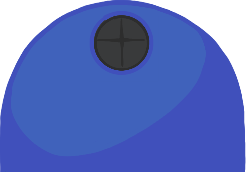
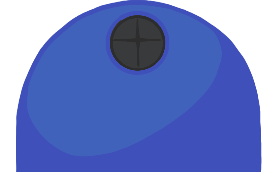
game2 bg

diff --git a/games/game2/game.js b/games/game2/game.js
@@ -28,16 +28,16 @@ function spawn_enemy( )
     var obj = document.createElement("img");
 
     
-    var nr =  parseInt( Math.random() * ( trashes_list.length ) );
+    var nr =  parseInt( Math.random() * ( game2_imgs.length ) );
 
     
-    obj.src = trashes_list[nr].img;
-    obj.className = trashes_list[nr].bin;
+    obj.src = game2_imgs[nr].img;
+    obj.className = game2_imgs[nr].bin;
     obj.className += " trash";       
     
-    var img_width = trashes_list[nr].width;
-    var img_height= trashes_list[nr].height;
-    obj.style = `z-index:10; position: absolute; left: ${ -img_width }px; top: ${parseInt(height/2)-img_height}px; width:${img_width}px; height:${img_height}px;`;
+    var img_width = game2_imgs[nr].width;
+    var img_height= game2_imgs[nr].height;
+    obj.style = `z-index:10; position: absolute; left: ${ -img_width }px; top: ${parseInt(height/2.2)-img_height}px; width:${img_width}px; height:${img_height}px;`;
 
     obj.draggable = true;
 

diff --git a/games/game2/game.html b/games/game2/game.html
@@ -13,11 +13,11 @@
          <p>Wynik:&nbsp;<span id="score">0</span> </p>
     </div>
     <div id="board">
-        <div class="bin" id="1" style="float: left; position: absolute;bottom: 0; background-color: gray;">
+        <div class="bin" id="1" style="float: left; position: absolute;bottom: 0; background: url('../data/imgs/Gra2_smietnik1.png');">
         </div>
-        <div class="bin" id="2" style="position: absolute;bottom: 0; left: 33.3%; background-color: yellow;">
+        <div class="bin" id="2" style="position: absolute;bottom: 0; left: 33.3%; background: url('../data/imgs/Gra2_smietnik2.png');">
         </div>
-        <div class="bin" id="3" style="position: absolute;bottom: 0; left: 66.6%; width: 33.4%; background-color: greenyellow;">
+        <div class="bin" id="3" style="position: absolute;bottom: 0; left: 66.6%; width: 33.4%; background: url('../data/imgs/Gra2_smietnik3.png');">
         </div>
     </div>
 </body>

diff --git a/games/data.js b/games/data.js
@@ -1,9 +1,9 @@
 var img_size = 60;
 
 
-var trashes_list = [{ img:'../data/imgs/Pudelko.png', width: 60 , height: 60, bin: 1} ,
-{ img:'../data/imgs/butelka2.png', width: 70*0.8 , height: 120*0.7, bin:2} ,
-{ img:'../data/imgs/Butelka_plst.png', width: 70*0.7, height: 120*0.7, bin:3} ,
+var game2_imgs = [{ img:'../data/imgs/Pudelko.png', width: 60 , height: 60, bin: 2} ,
+{ img:'../data/imgs/butelka2.png', width: 70*0.8 , height: 120*0.7, bin:3} ,
+{ img:'../data/imgs/Butelka_plst.png', width: 70*0.7, height: 120*0.7, bin:1} ,
 ];
 
 var game1_imgs = [

diff --git a/games/game2/game.css b/games/game2/game.css
@@ -35,8 +35,8 @@ body
 {
     position: absolute;
      top:20px; 
-    background-color: blue;
-    /* background: url( ); */
+    /* background-color: blue; */
+    background: url('../data/imgs/Gra2_tlo.gif') ;
     width: 800px;
     height: 600px;
     
